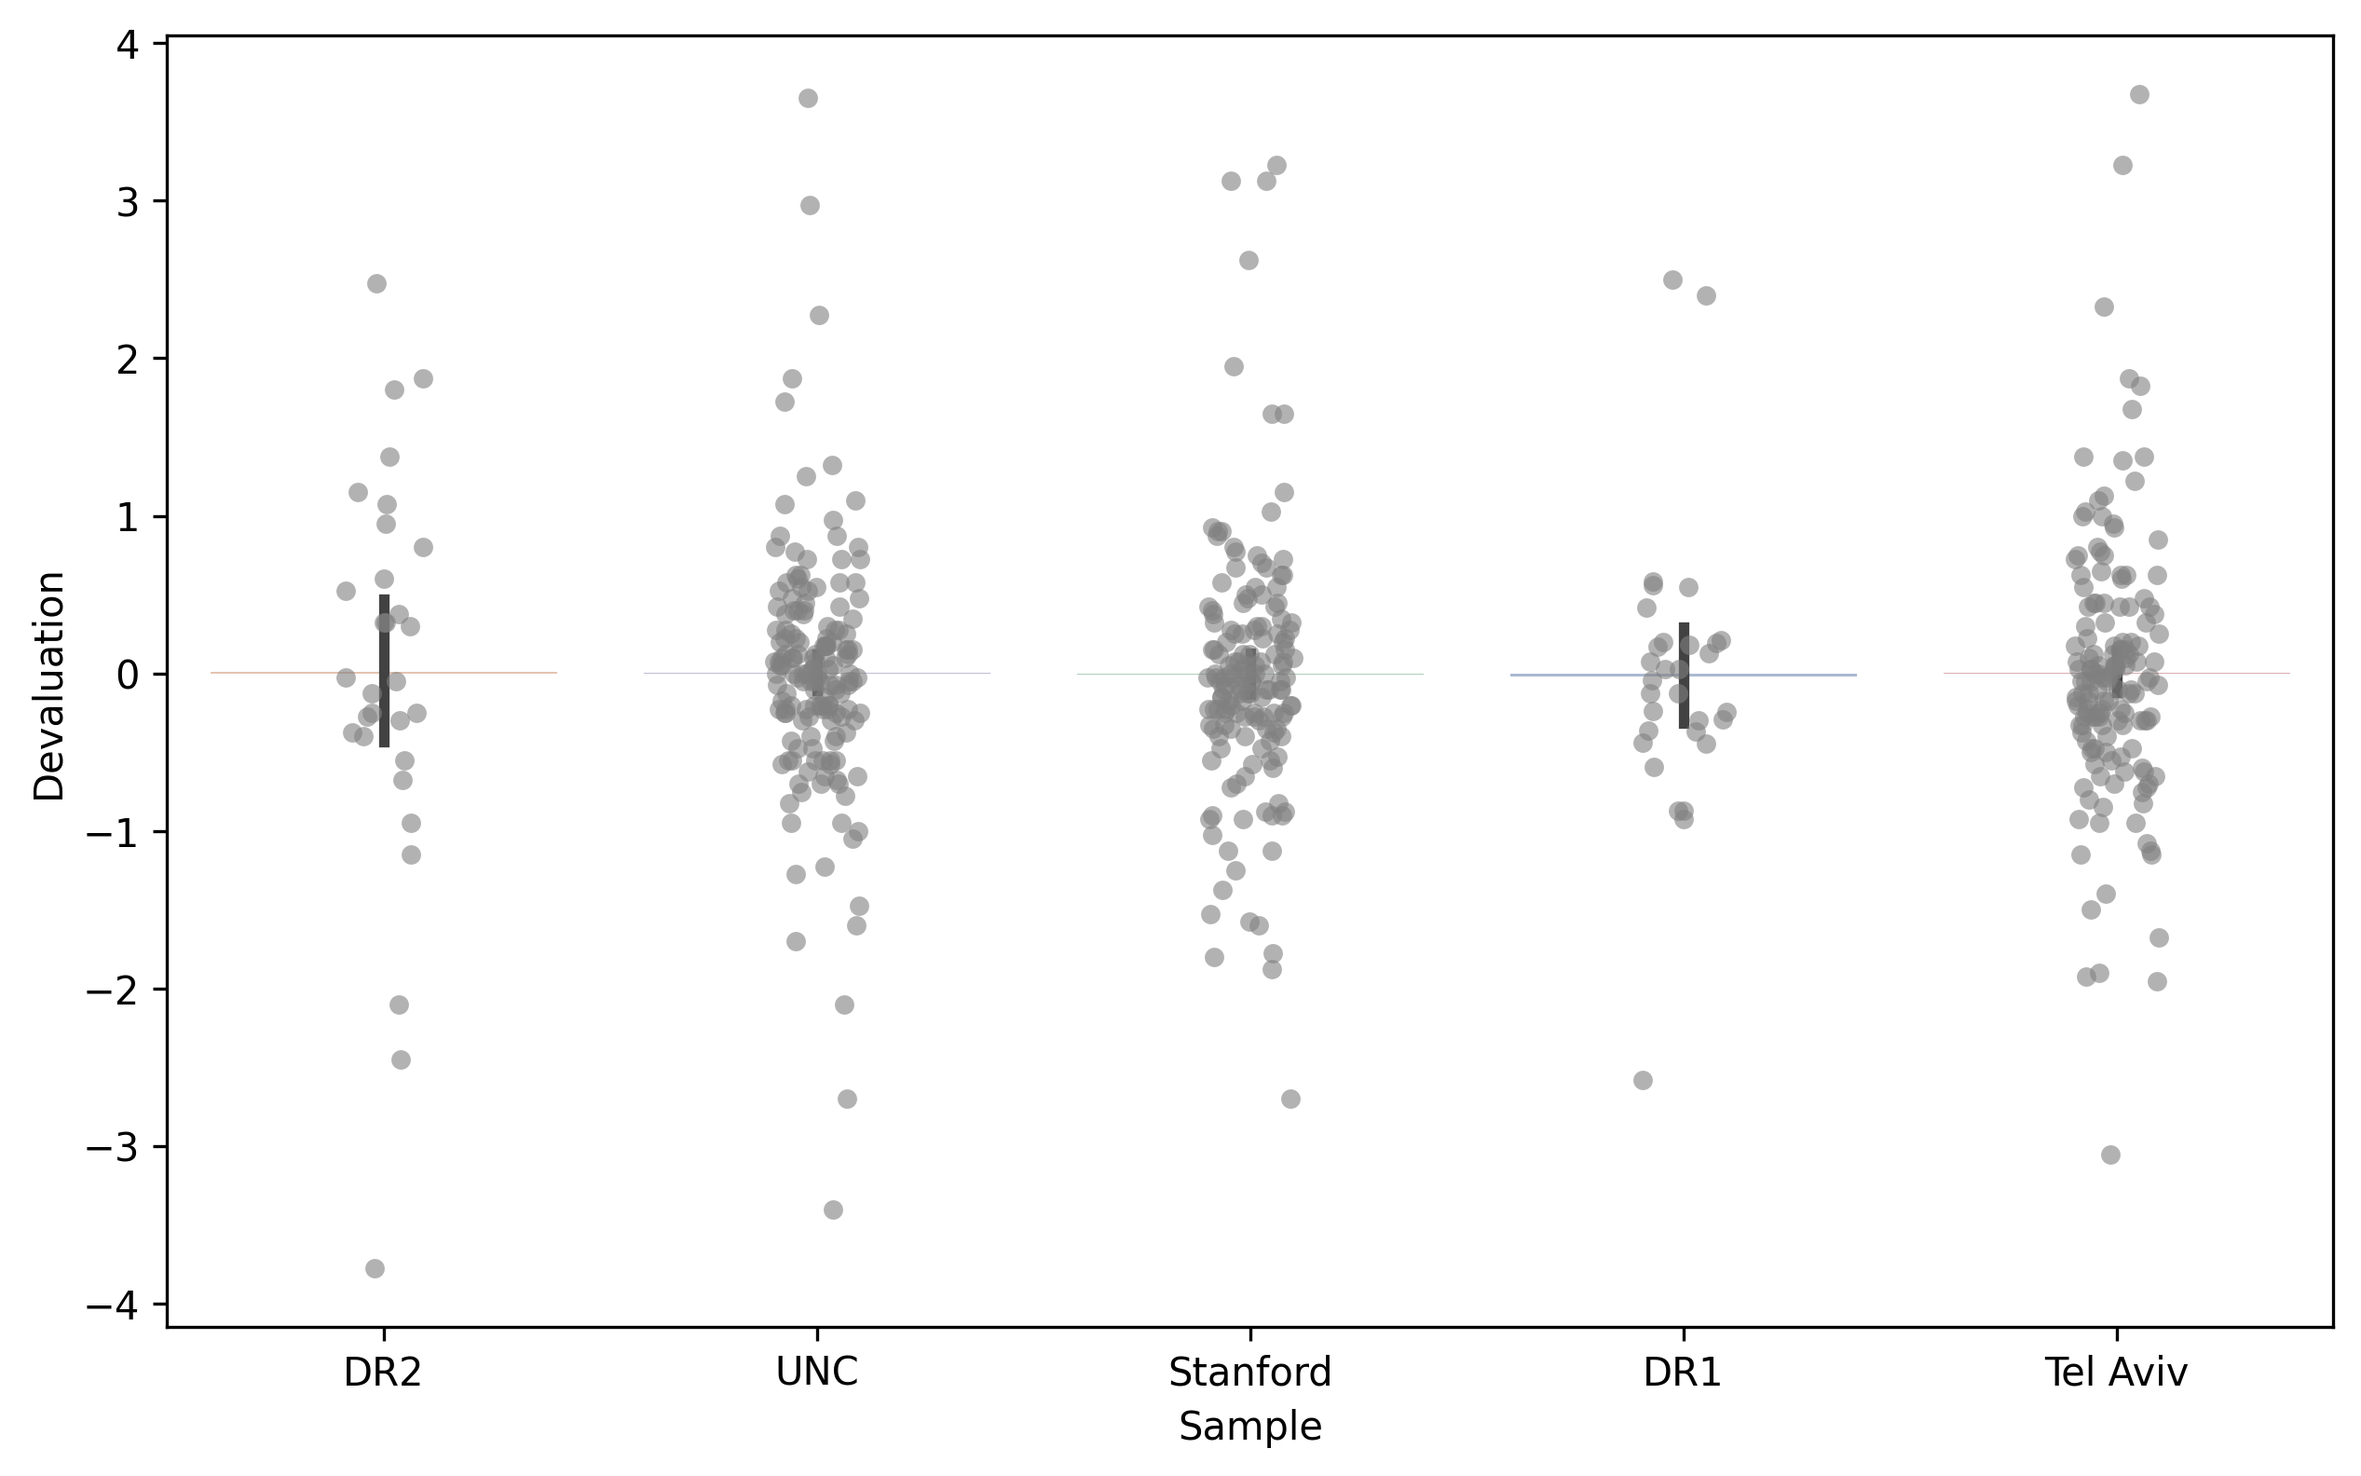
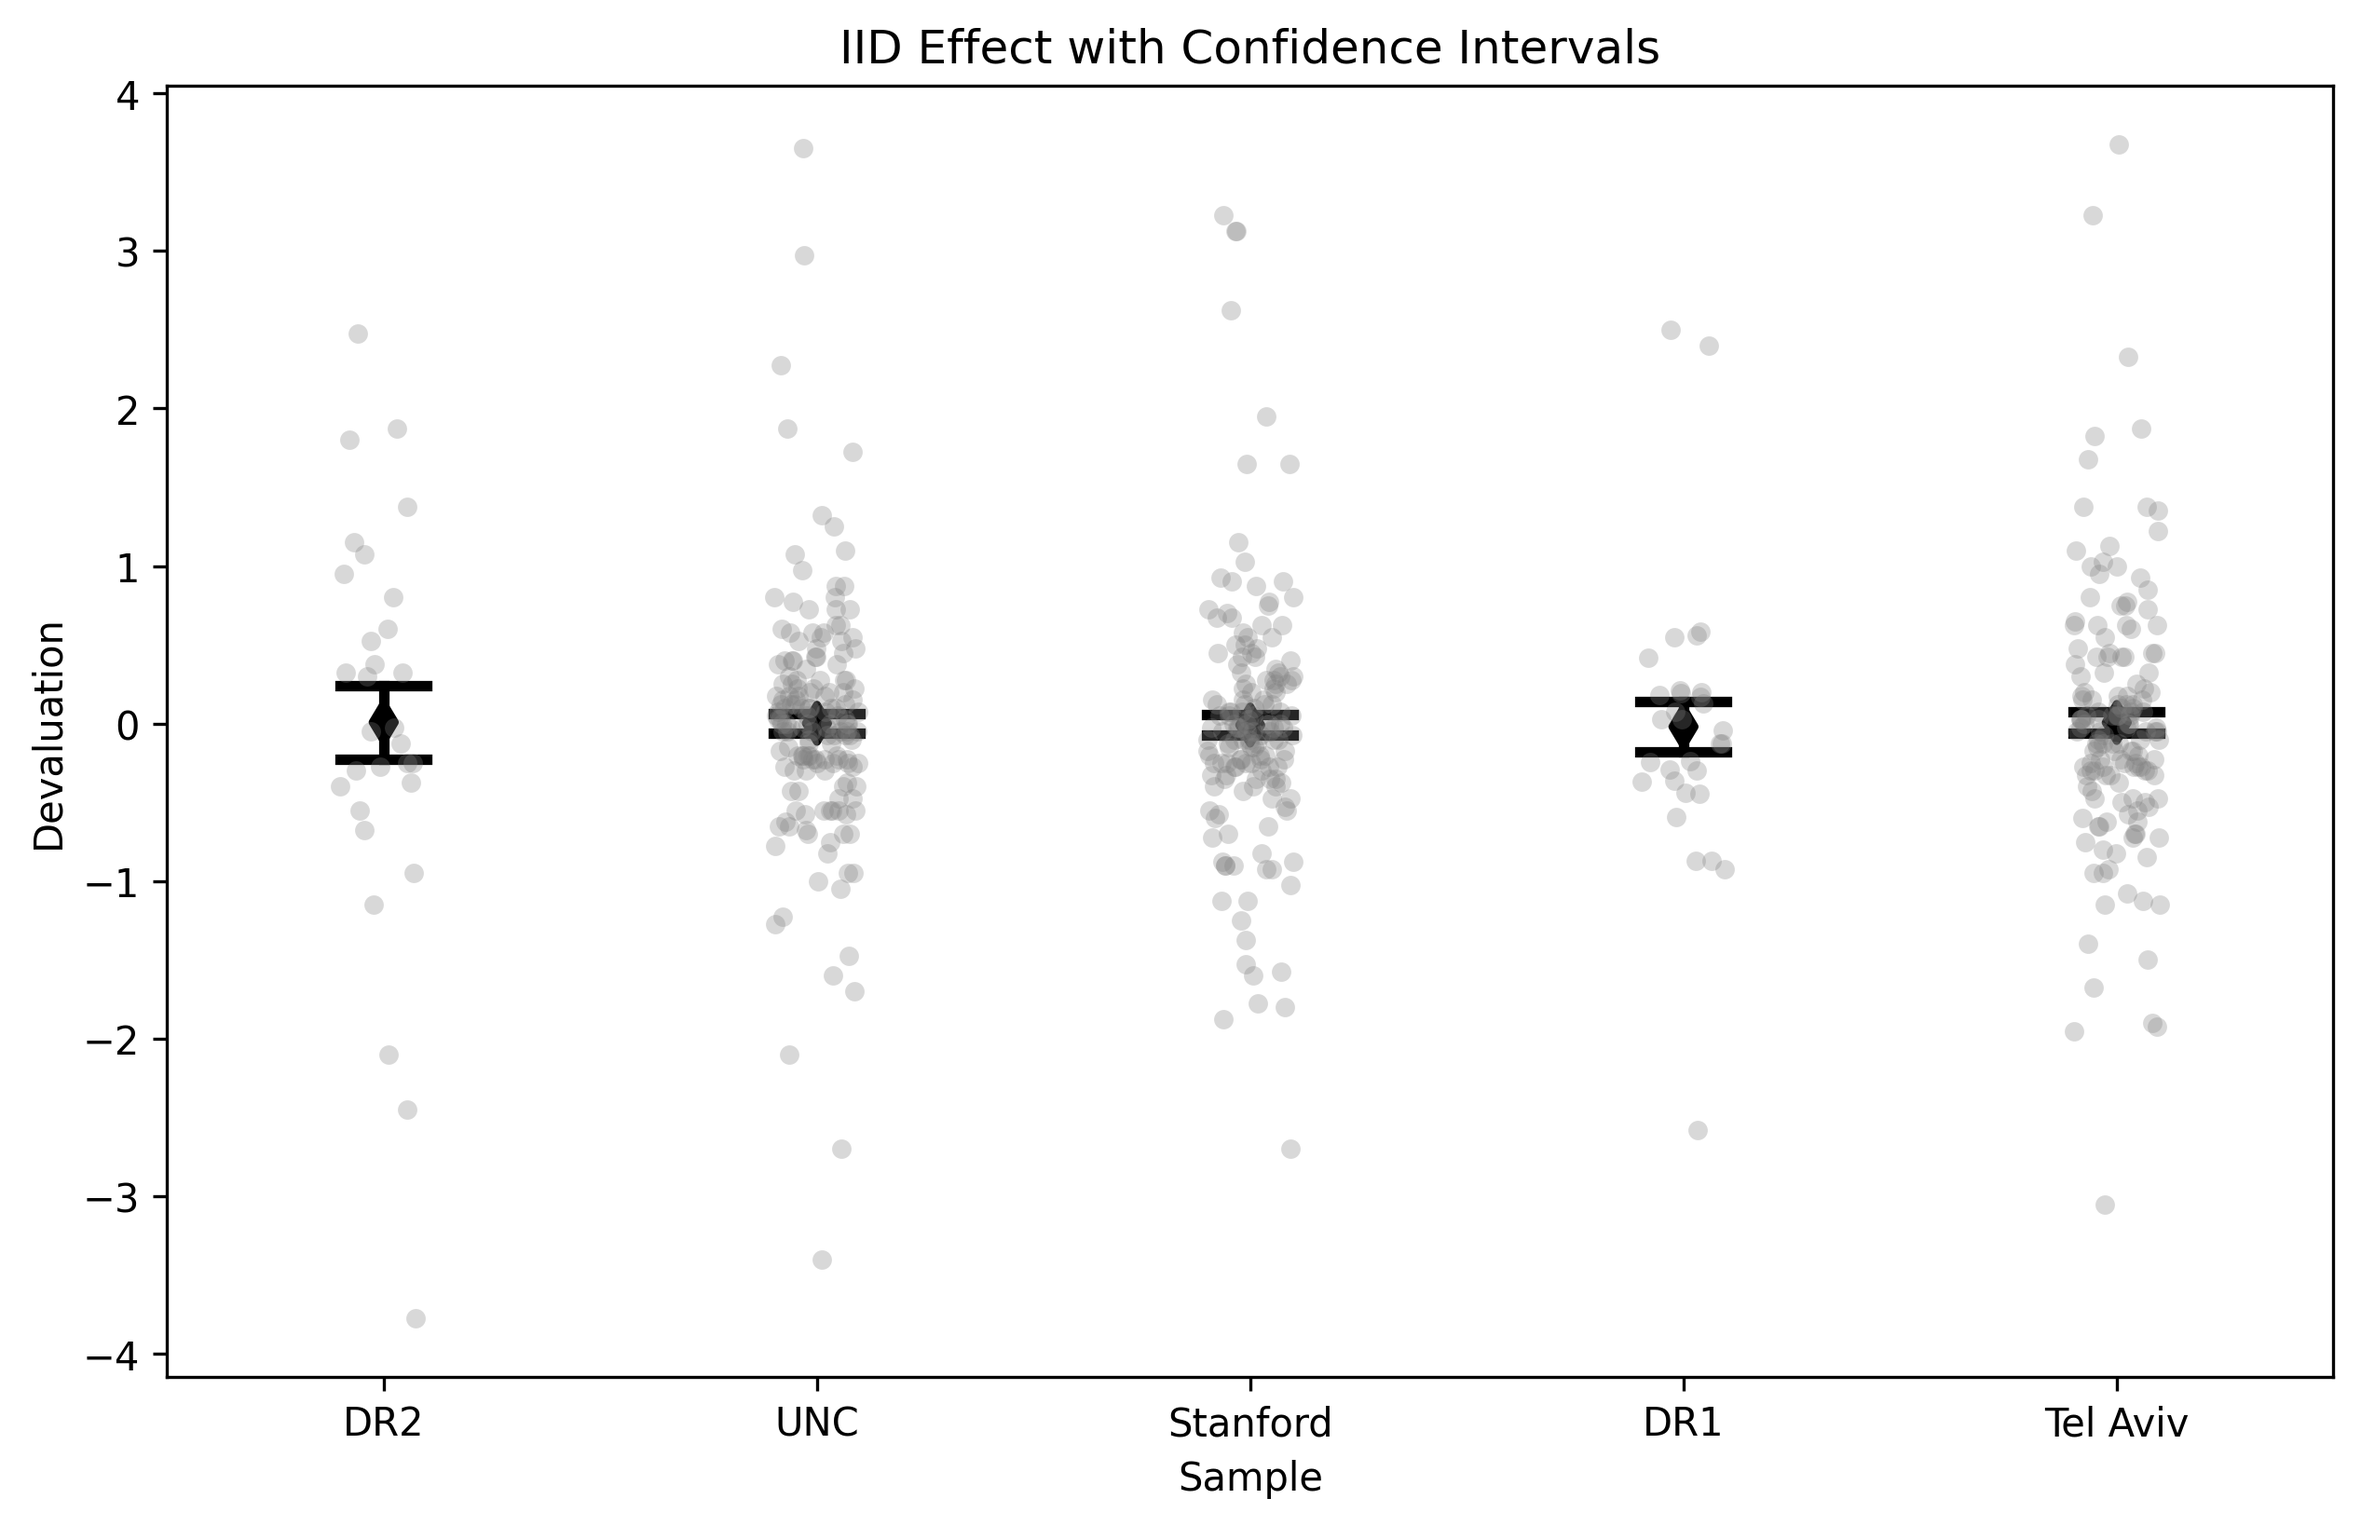
feat(figures): Updated figure 2

diff --git a/src/inhibition_induced_devaluation/utils/utils.py b/src/inhibition_induced_devaluation/utils/utils.py
@@ -1118,9 +1118,9 @@ def create_stopping_results_table(
     return pd.DataFrame(summary_data)
 
 
-def create_figure2(data_dir: Path, output_dir: Path):
+def create_figure2(data_dir: Path, figure_dir: Path):
     """
-    Create bar plot of average IID effects by location with individual subject points.
+    Create stripplot of IID effects by location with individual subject points and confidence intervals.
     """
     # Prepare data for plotting
     plot_data = []
@@ -1133,7 +1133,7 @@ def create_figure2(data_dir: Path, output_dir: Path):
         for csv_file in location_dir.glob("*.csv"):
             try:
                 df = pd.read_csv(csv_file)
-                iid_effect, _, _ = process_phase3_data(df)
+                iid_effect, _, _ = process_phase3_data(df)  # Assuming this function exists
                 if not np.isnan(iid_effect):
                     plot_data.append(
                         {"Sample": location_dir.name, "Devaluation": iid_effect}
@@ -1143,28 +1143,34 @@ def create_figure2(data_dir: Path, output_dir: Path):
 
     # Convert to DataFrame
     plot_df = pd.DataFrame(plot_data)
+
+    if plot_df.empty:  # Handle the case where no data was loaded.
+        print("No data to plot. Skipping figure creation.")
+        return
+
     # Create the plot
     plt.figure(figsize=(10, 6))
-    # Set y-axis limits from 0 to include all data points
-    # Define colors for each location
-    colors = {
-        "DR1": "#4C72B0",  # blue
-        "DR2": "#DD8452",  # orange
-        "Stanford": "#55A868",  # green
-        "Tel Aviv": "#C44E52",  # red
-        "UNC": "#8172B3",  # purple
-    }
 
-    # Add individual points
+    # Combine stripplot with pointplot for individual points and CIs
     sns.stripplot(
-        data=plot_df, x="Sample", y="Devaluation", color="gray", size=5, alpha=0.6
-    )
+        data=plot_df, x="Sample", y="Devaluation", color="gray", size=5, alpha=0.3, jitter=True
+    )  # Add jitter
 
-    sns.barplot(data=plot_df, x="Sample", y="Devaluation", palette=colors, alpha=0.5)
+    sns.pointplot(
+        data=plot_df,
+        x="Sample",
+        y="Devaluation",
+        join=False,  # Don't connect the points with lines
+        markers="d",  # Use diamond markers
+        color="black",  # Make the points black
+        capsize=0.2,  # Add caps to the error bars for better visibility
+        errorbar="se", # Show standard error for the error bars
+    )
 
     # Customize the plot
     plt.xlabel("Sample")
     plt.ylabel("Devaluation")
+    plt.title("IID Effect with Confidence Intervals")  # Add a title
     # Save the figure
-    plt.savefig(output_dir / "figure2.png", dpi=300, bbox_inches="tight")
+    plt.savefig(figure_dir / "figure2.png", dpi=300, bbox_inches="tight")
     plt.close()
